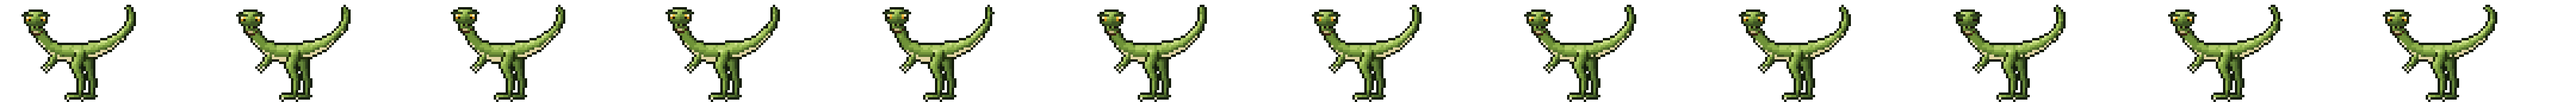
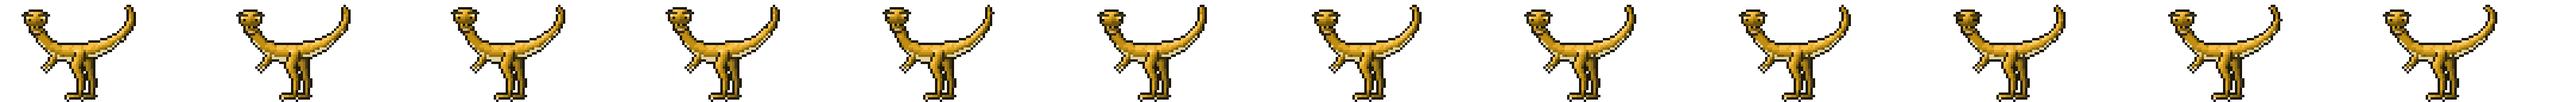
Compsognathus jaune doré (il ne se confond plus avec le Coelophysis vert) et pieds à la même hauteur sur toutes ses animations, plus de petit saut au début et à la fin des virages

diff --git a/index.html b/index.html
@@ -44,16 +44,16 @@
 </div>
 <div id="app"></div>
 <div class="toast-stack" id="toastStack"></div>
-<script src="js/01-core.js?v=188"></script>
-<script src="js/02-ia.js?v=188"></script>
-<script src="js/03-podcast-methodo.js?v=188"></script>
-<script src="js/04-prepa.js?v=188"></script>
-<script src="js/05-data-dinopark.js?v=188"></script>
-<script src="js/06-pages.js?v=188"></script>
-<script src="js/07-editeur-outils.js?v=188"></script>
-<script src="js/08-fenetres.js?v=188"></script>
-<script src="js/09-app.js?v=188"></script>
-<script src="js/10-calendrier-aujourdhui.js?v=188"></script>
-<script src="js/11-routeur-demarrage.js?v=188"></script>
+<script src="js/01-core.js?v=189"></script>
+<script src="js/02-ia.js?v=189"></script>
+<script src="js/03-podcast-methodo.js?v=189"></script>
+<script src="js/04-prepa.js?v=189"></script>
+<script src="js/05-data-dinopark.js?v=189"></script>
+<script src="js/06-pages.js?v=189"></script>
+<script src="js/07-editeur-outils.js?v=189"></script>
+<script src="js/08-fenetres.js?v=189"></script>
+<script src="js/09-app.js?v=189"></script>
+<script src="js/10-calendrier-aujourdhui.js?v=189"></script>
+<script src="js/11-routeur-demarrage.js?v=189"></script>
 </body>
 </html>

diff --git a/js/01-core.js b/js/01-core.js
@@ -2,7 +2,7 @@
 // Studino — stockage, images, audio, schémas
 // Fichier chargé dans l'ordre par index.html : les fichiers partagent les mêmes variables globales.
 
-  var APP_VERSION = "15.6"; // +0.1 à chaque push sur GitHub, pour que l'utilisateur puisse vérifier qu'il a bien la dernière version
+  var APP_VERSION = "15.7"; // +0.1 à chaque push sur GitHub, pour que l'utilisateur puisse vérifier qu'il a bien la dernière version
   // Installation sur l'écran d'accueil : Chrome/Edge/Android proposent l'installation par un événement
   // qu'on garde pour le bouton des paramètres ; l'iPhone n'en a pas, on explique la marche à suivre.
   var installPromptEvent = null;

diff --git a/sw.js b/sw.js
@@ -2,7 +2,7 @@
 // Pages, scripts et styles : toujours la version en ligne d'abord (pour avoir les mises à jour),
 // la copie gardée seulement si le réseau ne répond pas. Images et sons : la copie gardée d'abord.
 // Les autres sites (IA Gemini, bibliothèques) ne passent pas par ici.
-var CACHE = "studino-v22"; // à changer quand les images changent : les anciennes copies en cache sont supprimées
+var CACHE = "studino-v23"; // à changer quand les images changent : les anciennes copies en cache sont supprimées
 
 self.addEventListener("install", function () { self.skipWaiting(); });
 self.addEventListener("activate", function (e) {
